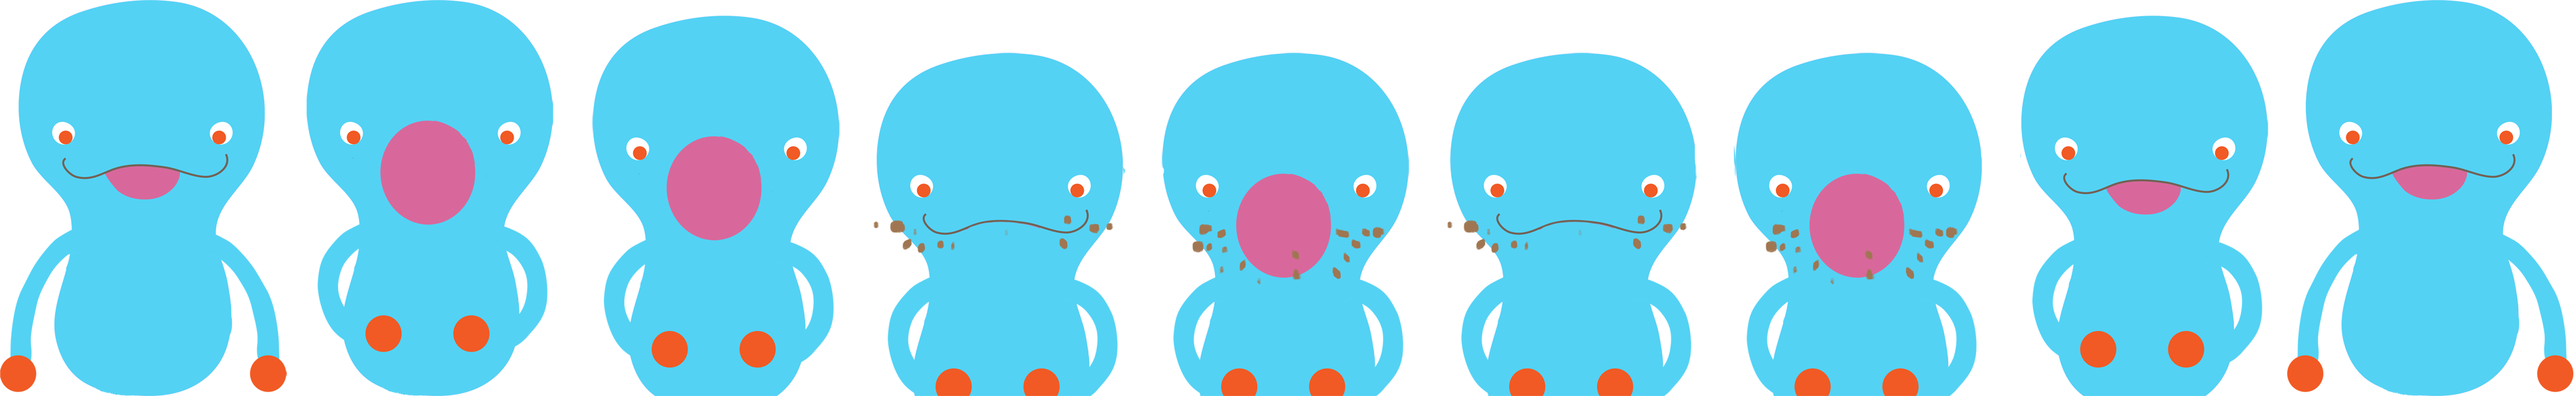
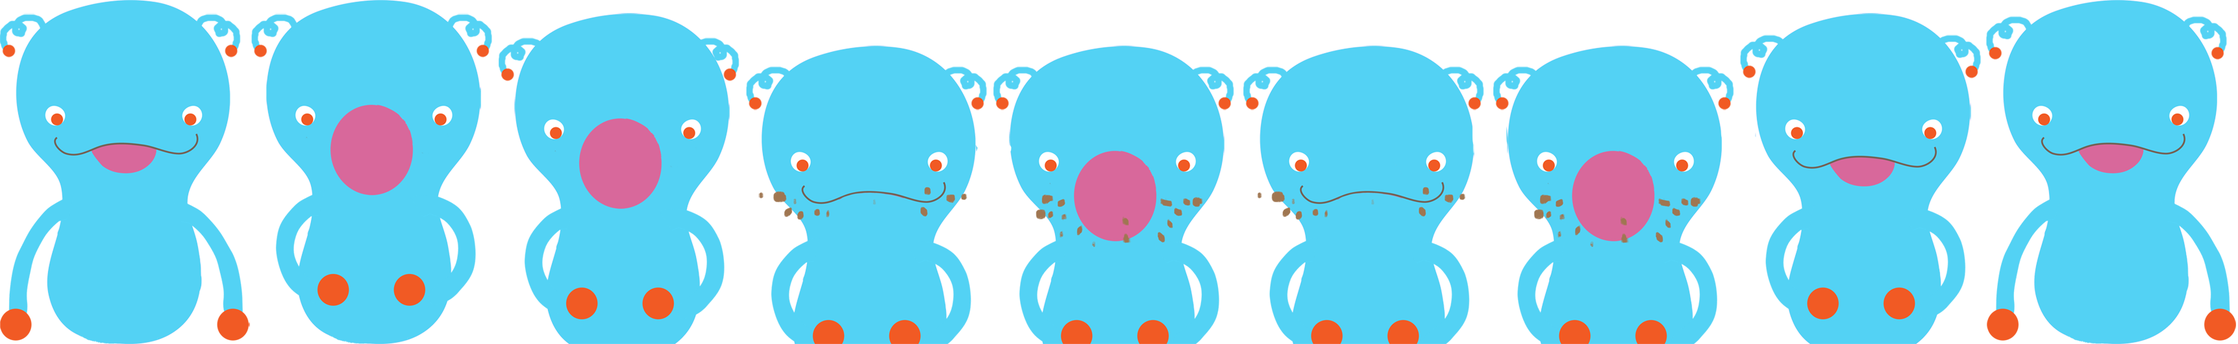
eating game updated assets

diff --git a/game/states/preload.js b/game/states/preload.js
@@ -56,7 +56,7 @@ Preload.prototype = {
     this.load.image('rectangle_hitbox', 'assets/img/EatingGame/rectangle_hitbox.png');
 
     // Good food
-    this.load.spritesheet('eating_alien_gf', 'assets/img/EatingGame/EatingGame_good_food_smap.png', 442, 610);
+    this.load.spritesheet('eating_alien_gf', 'assets/img/EatingGame/EatingGame_good_food_smap.png', 383, 530); //442, 610
     this.load.image('eating_g1', 'assets/img/EatingGame/EatingGame_1.png');
     this.load.image('eating_g2', 'assets/img/EatingGame/EatingGame_2.png');
     this.load.image('eating_g3', 'assets/img/EatingGame/EatingGame_3.png');
@@ -67,7 +67,7 @@ Preload.prototype = {
     this.load.image('eating_g8', 'assets/img/EatingGame/EatingGame_8.png');    
 
     // Bad good
-    this.load.spritesheet('eating_alien_bf', 'assets/img/EatingGame/EatingGame_bad_food_smap.png', 500, 610);
+    this.load.spritesheet('eating_alien_bf', 'assets/img/EatingGame/EatingGame_bad_food_smap.png', 435, 530); // 500,610
     this.load.image('eating_b1', 'assets/img/EatingGame/EatingGame_X1.png');
     this.load.image('eating_b2', 'assets/img/EatingGame/EatingGame_X2.png');
     this.load.image('eating_b3', 'assets/img/EatingGame/EatingGame_X3.png');
